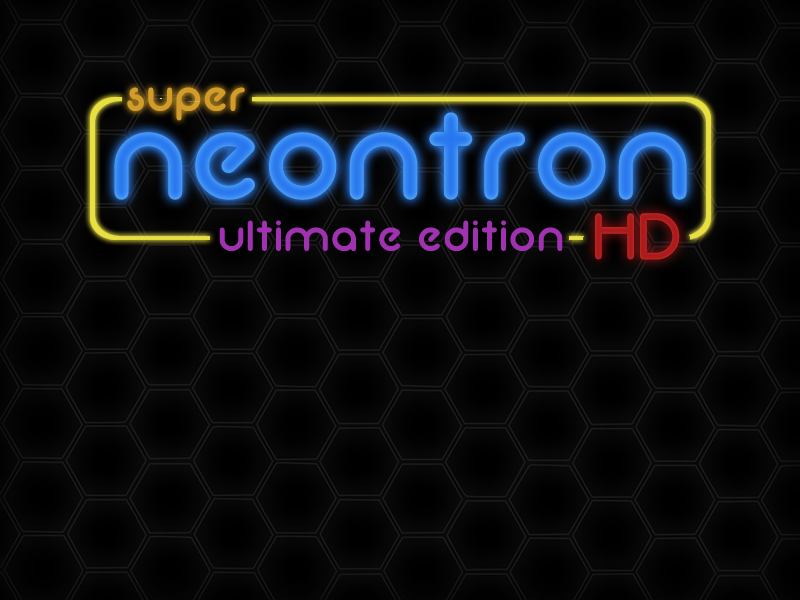
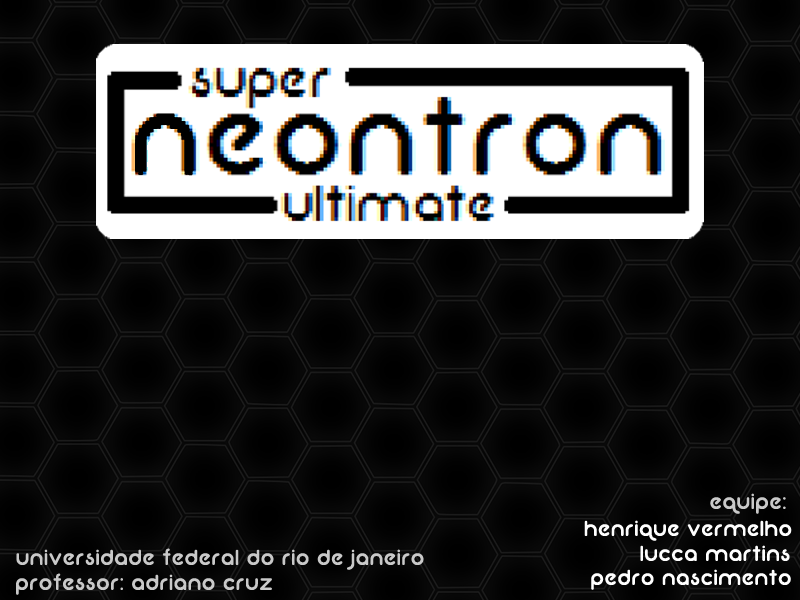
Visual retrabalhado, blocos de cores diferente, tela de inicio com nomes e universidade.

Changed region(s): [[0.0938, 0.06, 0.9062, 0.45], [0.0, 0.9, 0.5312, 0.99], [0.7188, 0.81, 1.0, 0.99]]

diff --git a/func.c b/func.c
@@ -37,21 +37,21 @@ int createBlock(BLOCK *b){
 		puts("Imagem do bloco não foi carregada.");
 	}
 	pushTrash(b[0].image);
-	SDL_SetColorKey(b->image, SDL_TRUE, SDL_MapRGB( (b->image)->format, 0xFF, 0, 0xFF));
+	SDL_SetColorKey(b[0].image, SDL_TRUE, SDL_MapRGB( (b[0].image)->format, 0xFF, 0, 0xFF));
 	b[1].image = loadSurface(BLOCK_ADDRESS2);
 	if(b->image==NULL){
 		success = false;
 		puts("Imagem do bloco não foi carregada.");
 	}
 	pushTrash(b[1].image);
-	SDL_SetColorKey(b->image, SDL_TRUE, SDL_MapRGB( (b->image)->format, 0xFF, 0, 0xFF));
+	SDL_SetColorKey(b[1].image, SDL_TRUE, SDL_MapRGB( (b[1].image)->format, 0xFF, 0, 0xFF));
 	b[2].image = loadSurface(BLOCK_ADDRESS3);
 	if(b->image==NULL){
 		success = false;
 		puts("Imagem do bloco não foi carregada.");
 	}
 	pushTrash(b[2].image);
-	SDL_SetColorKey(b->image, SDL_TRUE, SDL_MapRGB( (b->image)->format, 0xFF, 0, 0xFF));
+	SDL_SetColorKey(b[2].image, SDL_TRUE, SDL_MapRGB( (b[2].image)->format, 0xFF, 0, 0xFF));
 
 	return success;
 }
@@ -397,7 +397,6 @@ int menuPause(void){
 						break;
 					case SDL_KEYDOWN:
 						switch(e.key.keysym.sym){
-							printf("merda\n");
 							case SDLK_ESCAPE:
 								quit = 1;
 								break;
@@ -432,11 +431,13 @@ int blitBackground(void){
 	dstRectBackground.y = 0;
 	dstRectBackground.w = 800;
 	dstRectBackground.h = 600;
-
+	
+	
 	if(SDL_BlitSurface(gBackground, NULL, gScreenSurface, &dstRectBackground) < 0){
 		printf("SDL could not blit! SDL Error: %s\n", SDL_GetError());
 		success = false;
 	}
+	
 	return success;
 	}
 

diff --git a/main.c b/main.c
@@ -63,7 +63,7 @@ int main(int argc, char* args[]){
 			}
 
 			aceleratePad(&Pad);
-			SDL_FillRect(gScreenSurface, NULL, SDL_MapRGB(gScreenSurface->format, 0xFF, 0xFF, 0xFF));
+			SDL_FillRect(gScreenSurface, NULL, SDL_MapRGB(gScreenSurface->format, 0, 0, 0));
 
 			if (!blitBackground()){
 				quit = false;

diff --git a/defs.h b/defs.h
@@ -13,7 +13,7 @@
 #define BLOCK_WIDTH 80
 #define BLOCK_HEIGHT 30
 #define BLOCK_ADDRESS1 "./img/block1.png"
-#define BLOCK_ADDRESS2 "./img/bloco2.png"
+#define BLOCK_ADDRESS2 "./img/block2.png"
 #define BLOCK_ADDRESS3 "./img/bloco3.png"
 
 //BACKGROUND constants
